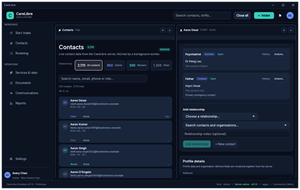
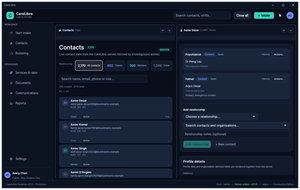
Keep column borders and rounded bottoms visible
Insets the column content by one pixel so the body frame no longer paints over side borders, and rounds the body frame's bottom corners so every column keeps its rounded outline. Refreshes the screenshots.

diff --git a/src/app.rs b/src/app.rs
@@ -2011,7 +2011,7 @@ impl CareLibreApp {
                         Stroke::new(1.0, theme::border_strong())
                     })
                     .corner_radius(CornerRadius::same(10))
-                    .inner_margin(Margin::ZERO)
+                    .inner_margin(Margin::same(1))
                     .show(&mut column_ui, |ui| {
                         ui.set_min_height(height);
                         let column_page = match &kind {
@@ -2054,6 +2054,12 @@ impl CareLibreApp {
                             ColumnKind::Page(open_page) => {
                                 Frame::new()
                                     .fill(theme::bg())
+                                    .corner_radius(CornerRadius {
+                                        nw: 0,
+                                        ne: 0,
+                                        sw: 9,
+                                        se: 9,
+                                    })
                                     .inner_margin(Margin::same(16))
                                     .show(ui, |ui| {
                                         ui.set_min_height((height - 40.0).max(120.0));
@@ -2088,6 +2094,12 @@ impl CareLibreApp {
                             ColumnKind::Contact(id) => {
                                 Frame::new()
                                         .fill(theme::bg())
+                                        .corner_radius(CornerRadius {
+                                            nw: 0,
+                                            ne: 0,
+                                            sw: 9,
+                                            se: 9,
+                                        })
                                         .inner_margin(Margin::same(12))
                                         .show(ui, |ui| {
                                             ui.set_min_height((height - 40.0).max(120.0));
